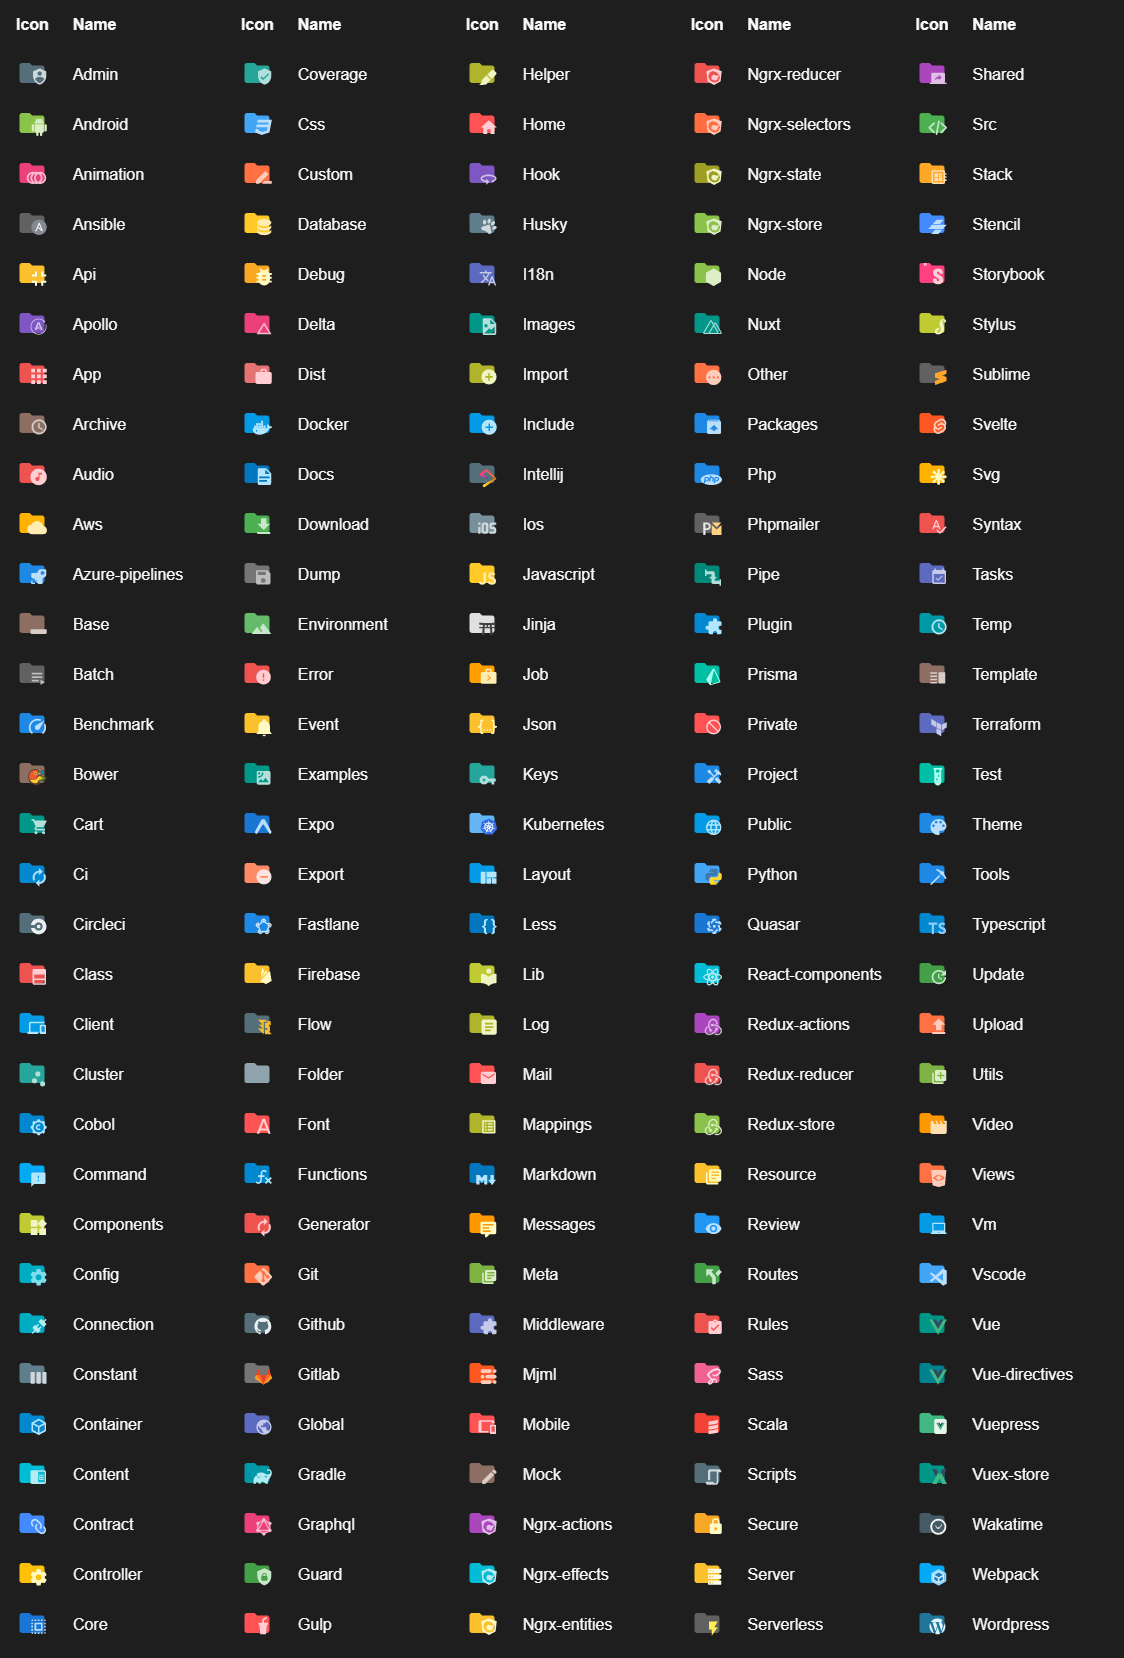
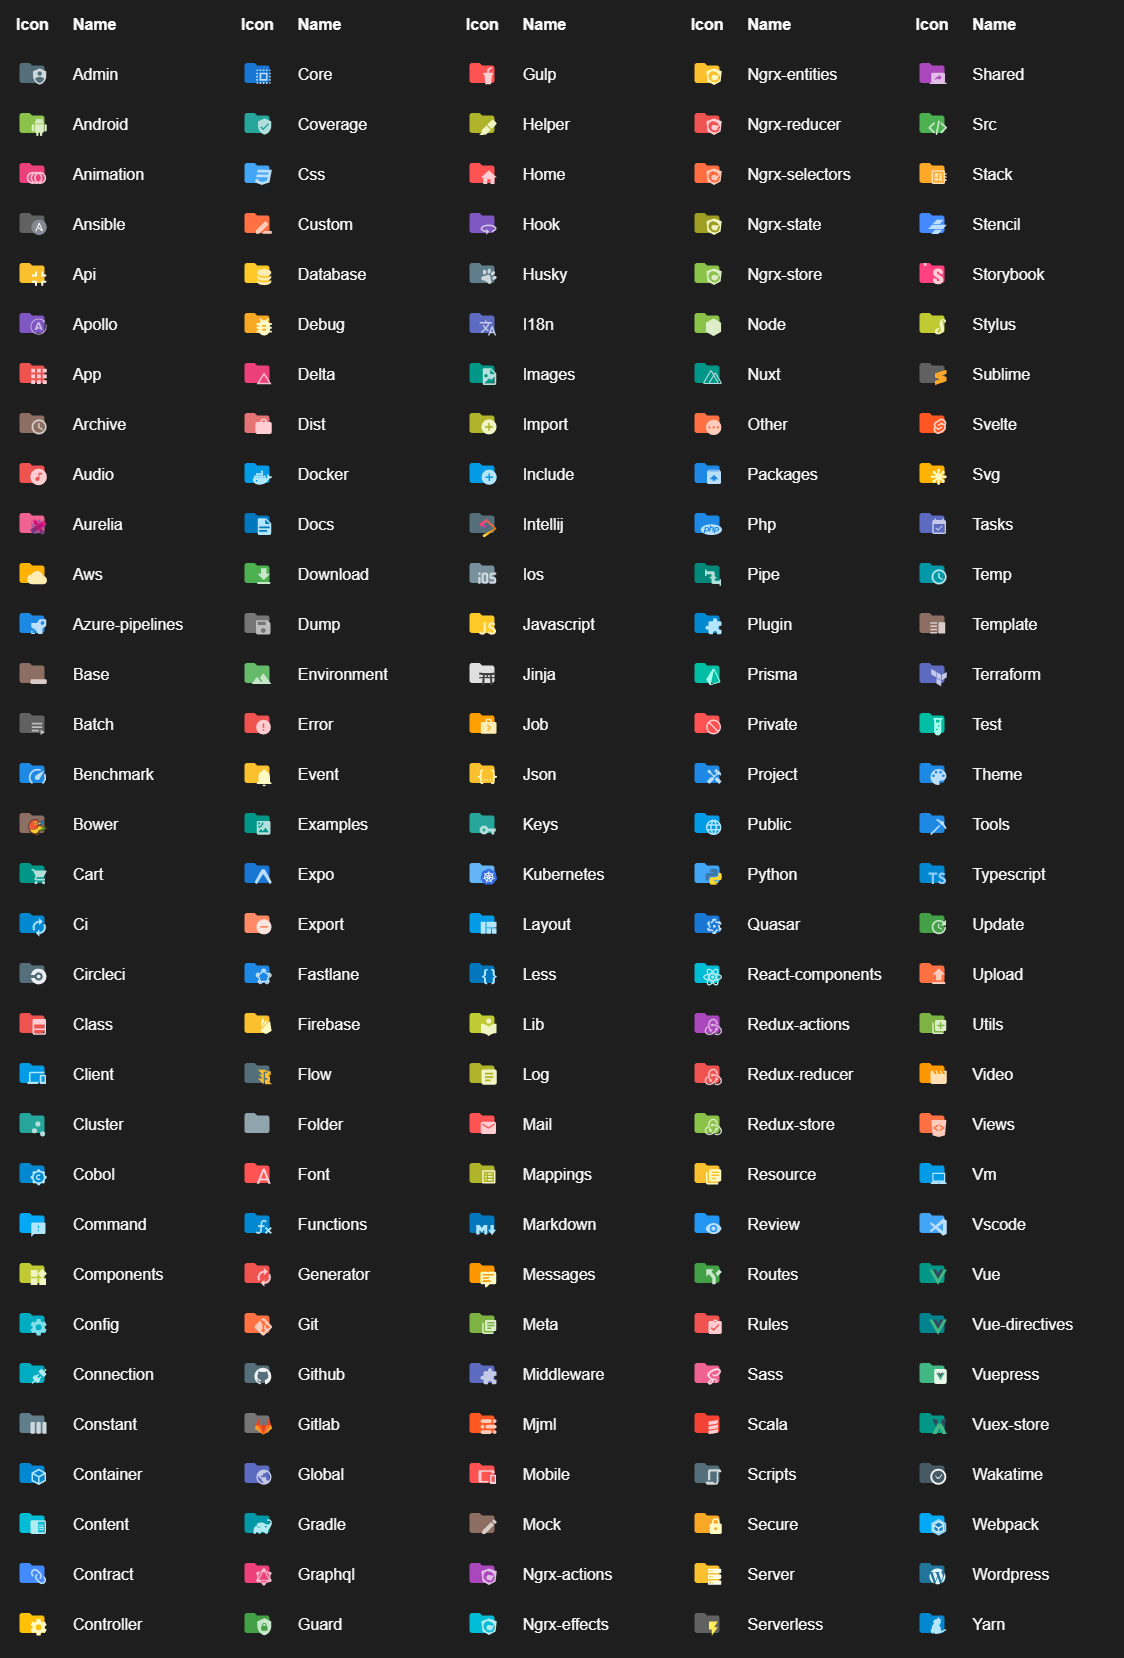
Release 4.8.0

diff --git a/CHANGELOG.md b/CHANGELOG.md
@@ -1,12 +1,62 @@
 # Changelog
 
+## 4.8.0 (2021-07-04)
+
+### New file icons
+
+- Java '.class' ([@moxwel](https://github.com/moxwel) in [#1060](https://github.com/PKief/vscode-material-icon-theme/pull/1060))
+- Hex ([@moxwel](https://github.com/moxwel) in [#1062](https://github.com/PKief/vscode-material-icon-theme/pull/1062))
+- webpack.mix.js ([@4086606](https://github.com/4086606) in [#1056](https://github.com/PKief/vscode-material-icon-theme/pull/1056))
+- artisan ([@4086606](https://github.com/4086606) in [#1057](https://github.com/PKief/vscode-material-icon-theme/pull/1057))
+- stories.mdx, story.mdx ([@bart-krakowski](https://github.com/bart-krakowski) in [#1048](https://github.com/PKief/vscode-material-icon-theme/pull/1048))
+- stories.svelte ([@jerriclynsjohn](https://github.com/jerriclynsjohn) in [#1064](https://github.com/PKief/vscode-material-icon-theme/pull/1064))
+- TSConfig, JSConfig ([@4086606](https://github.com/4086606) in [#1066](https://github.com/PKief/vscode-material-icon-theme/pull/1066))
+- vetur.config.\* ([@4086606](https://github.com/4086606) in [#1055](https://github.com/PKief/vscode-material-icon-theme/pull/1055))
+- Java '.jar' ([@moxwel](https://github.com/moxwel) in [#1074](https://github.com/PKief/vscode-material-icon-theme/pull/1074))
+- robots.txt ([@4086606](https://github.com/4086606) in [#1054](https://github.com/PKief/vscode-material-icon-theme/pull/1054))
+- .eslintrc-md.js ([@shivapoudel](https://github.com/shivapoudel) in [#1103](https://github.com/PKief/vscode-material-icon-theme/pull/1103))
+- Babel transform and Jest config ([@shivapoudel](https://github.com/shivapoudel) in [#1107](https://github.com/PKief/vscode-material-icon-theme/pull/1107))
+- tsconfig.base.json ([@shivapoudel](https://github.com/shivapoudel) in [#1109](https://github.com/PKief/vscode-material-icon-theme/pull/1109))
+- snowpack.config.mjs, snowpack.deps.json ([@loctran016](https://github.com/loctran016) in [#1112](https://github.com/PKief/vscode-material-icon-theme/pull/1112))
+- horusec-config ([@lucasbrunozup](https://github.com/lucasbrunozup) in [#1081](https://github.com/PKief/vscode-material-icon-theme/pull/1081))
+- schemes ([@emfomy](https://github.com/emfomy) in [#1113](https://github.com/PKief/vscode-material-icon-theme/pull/1113))
+- Ember ([@4086606](https://github.com/4086606) in [#1097](https://github.com/PKief/vscode-material-icon-theme/pull/1097))
+- Ada ([@4086606](https://github.com/4086606) in [#1099](https://github.com/PKief/vscode-material-icon-theme/pull/1099))
+- Maven ([@4086606](https://github.com/4086606) in [#1098](https://github.com/PKief/vscode-material-icon-theme/pull/1098))
+- PHP CS Fixer ([@4086606](https://github.com/4086606) in [#1052](https://github.com/PKief/vscode-material-icon-theme/pull/1052))
+- .eslintrc-jsdoc.js ([@shivapoudel](https://github.com/shivapoudel) in [#1117](https://github.com/PKief/vscode-material-icon-theme/pull/1117))
+- PHP_CodeSniffer ruleset file ([@shivapoudel](https://github.com/shivapoudel) in [#1116](https://github.com/PKief/vscode-material-icon-theme/pull/1116))
+- .gitignore_global ([@shivapoudel](https://github.com/shivapoudel) in [#1131](https://github.com/PKief/vscode-material-icon-theme/pull/1131))
+- .env.dist ([@shivapoudel](https://github.com/shivapoudel) in [#1126](https://github.com/PKief/vscode-material-icon-theme/pull/1126))
+- pink php elephant ([@PKief](https://github.com/PKief) in commit [cc09a0d](https://github.com/PKief/vscode-material-icon-theme/commit/cc09a0d4ae6ceb29aa231850522aa4757ed016e1))
+- Extend prettier config file options ([@PKief](https://github.com/PKief) in commit [23e9d6a](https://github.com/PKief/vscode-material-icon-theme/commit/23e9d6a6f2ef3d749716c87dedd538aa9c3a01c5))
+
+### New folder icons
+
+- picture ([@PKief](https://github.com/PKief) in commit [eb7cf6d](https://github.com/PKief/vscode-material-icon-theme/commit/eb7cf6d73247b9fa918921b0a739a3ddbba961e4))
+- restapi ([@shivapoudel](https://github.com/shivapoudel) in [#1093](https://github.com/PKief/vscode-material-icon-theme/pull/1093))
+- storybook ([@shivapoudel](https://github.com/shivapoudel) in [#1118](https://github.com/PKief/vscode-material-icon-theme/pull/1118))
+- sample-data ([@shivapoudel](https://github.com/shivapoudel) in [#1115](https://github.com/PKief/vscode-material-icon-theme/pull/1115))
+- .wordpress-org ([@shivapoudel](https://github.com/shivapoudel) in [#1114](https://github.com/PKief/vscode-material-icon-theme/pull/1114))
+- yarn ([@mmykhaylov](https://github.com/mmykhaylov) in [#998](https://github.com/PKief/vscode-material-icon-theme/pull/998))
+
+### Updated icons
+
+- docker ([@PKief](https://github.com/PKief) in commit [8b2a3bc](https://github.com/PKief/vscode-material-icon-theme/commit/8b2a3bca035637114748789938f0dadbf952d899))
+- yarn ([@PKief](https://github.com/PKief) in commit [bd77a62](https://github.com/PKief/vscode-material-icon-theme/commit/bd77a62ae81d921aef2f3cb84a64cf85c2d5895d))
+
+### Other changes
+
+- Format code on save ([@PKief](https://github.com/PKief) in commit [590063c](https://github.com/PKief/vscode-material-icon-theme/commit/590063c2ef4d5e61559df1f5a822580e57575234))
+- Improve generation of icon preview images ([@PKief](https://github.com/PKief) in commit [cd91ac4](https://github.com/PKief/vscode-material-icon-theme/commit/cd91ac417c15994876c38b7a4694b79cf0a09de9))
+
 ## 4.7.0 (2021-05-24)
 
 ### New file icons
 
 - \*.scala ([@PKief](https://github.com/PKief) in commit [a5ec66b](https://github.com/PKief/vscode-material-icon-theme/commit/a5ec66bb35b627eda0283a659e66b810bb19943d))
 - svelte.config.cjs ([@Liamolucko](https://github.com/Liamolucko) in [#980](https://github.com/PKief/vscode-material-icon-theme/pull/980))
-- *.env.template ([@radarsu](https://github.com/radarsu) in [#1033](https://github.com/PKief/vscode-material-icon-theme/pull/1033))
+- \*.env.template ([@radarsu](https://github.com/radarsu) in [#1033](https://github.com/PKief/vscode-material-icon-theme/pull/1033))
 - \*.wav ([@PKief](https://github.com/PKief) in commit [a6b361](https://github.com/PKief/vscode-material-icon-theme/commit/a6b3618986334209862db1c42880a1ab12d6f464))
 - \*.pgm, \*.ppm, \*.pnm ([@pseudo-usama](https://github.com/pseudo-usama) in [#989](https://github.com/PKief/vscode-material-icon-theme/pull/989))
 - Lilypond ([@PKief](https://github.com/PKief) in [#1006](https://github.com/PKief/vscode-material-icon-theme/pull/1006))

diff --git a/README.md b/README.md
@@ -19,7 +19,7 @@
 <p align="center"><br>
 <b>Sponsored by</b><br><br>
 <a title="Try CodeStream" href="https://sponsorlink.codestream.com/?utm_source=vscmarket&amp;utm_campaign=pkief_material&amp;utm_medium=banner"><img width="300px" src="https://alt-images.codestream.com/codestream_logo_pkief_material.png"></a><br><br>
-<a title="Try Stepsize" href="https://marketplace.visualstudio.com/items?itemName=Stepsize.stepsize"><img width="300px" src="./images/stepsize.png"></a>
+<a title="Try Stepsize" href="https://marketplace.visualstudio.com/items?itemName=Stepsize.stepsize"><img width="300px" src="https://raw.githubusercontent.com/PKief/vscode-material-icon-theme/main/images/stepsize.png"></a>
 </p>
 
 ### File icons
